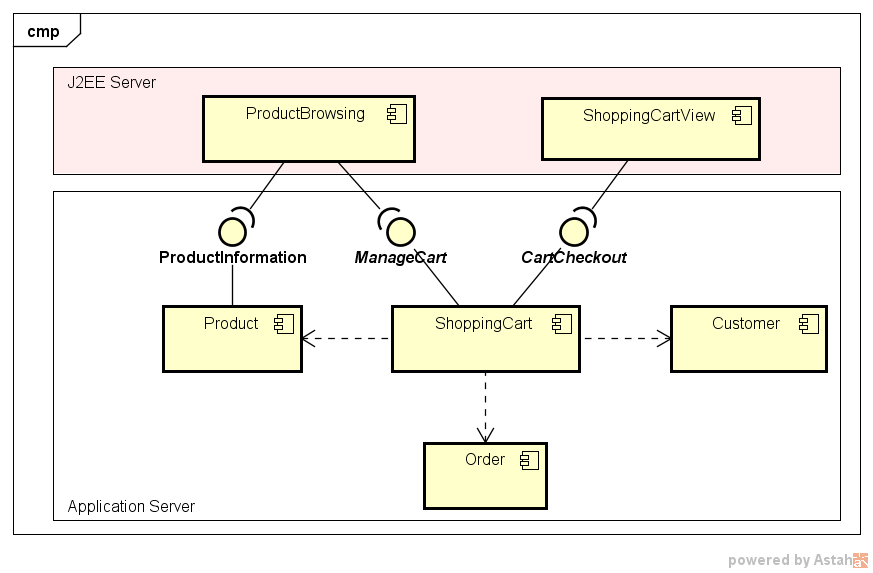
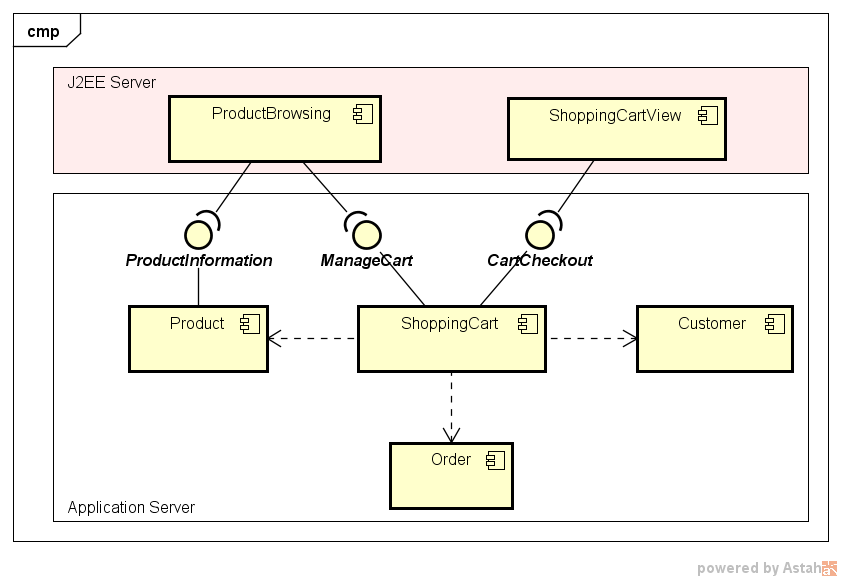
Fixed typos in view notes.

Changed region(s): [[0.0, 0.0, 0.9881, 1.0]]

diff --git a/notes/views/content.tex b/notes/views/content.tex
@@ -276,7 +276,7 @@ To keep the example manageable, this is the only part of the system that is show
 
 \begin{figure}[h]
     \centering
-    \includegraphics[trim=39 37 22 49,clip,width=0.8\textwidth]{images/uml/component_diagram.png}
+    \includegraphics[trim=40 40 23 50,clip,width=0.78\textwidth]{images/uml/component_diagram.png}
     \caption{Example logical architecture -- browsing for products and purchasing them.}
     \label{fig:componentDiagram}
 \end{figure}
@@ -298,7 +298,7 @@ The \texttt{ShoppingCart} component uses the \texttt{Product}, \texttt{Customer}
 At the programming level, there could be interfaces between these components which are not shown in this diagram.
 
 \noindent
-The applicaiton database is not shown in this component diagram as all of its behaviour is defined within the application server's logic.
+The application database is not shown in this component diagram as all of its behaviour is defined within the application server's logic.
 JPA automates the process of saving and retrieving objects from a relational database.
 Consequently, the database is just a storage mechanism and does not implement any application logic.
 If the database implemented logic (e.g. through stored procedures and constraints),
@@ -315,9 +315,10 @@ This notation visualises the connection between components.
 
 Dependency arrows point from a component whose runtime behaviour depends on behaviour provided by the target component.
 
-Boxes around groups of components are \emph{system boundary boxes}.
+Boxes around groups of components are \emph{subjects}.
 They represent a logical grouping of elements in a UML diagram and can be given a name to describe the grouping.
 Colours and shading can be used to help distinguish between different logical groups.
+In this example, the J2EE Server and Application Server subjects represent system boundaries for the two respective deployment environments.
 
 \subsubsection{Behaviour Structure}\label{sec:behaviourStruct}
 With complex systems it can be helpful to describe how the behaviour is implemented.
